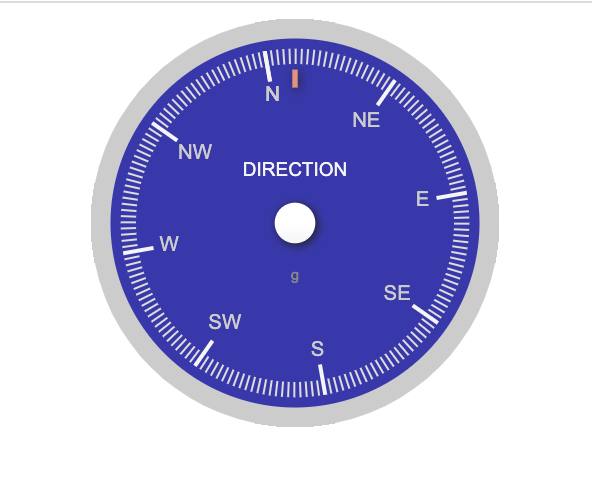
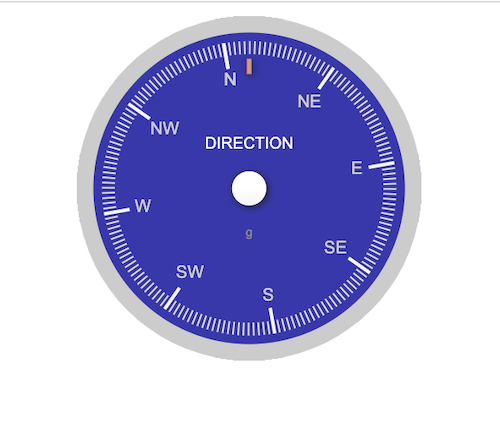
magnetic compass 2

diff --git a/examples/analog_compass_2/src/gauge.min.js b/examples/analog_compass_2/src/gauge.min.js
@@ -1,0 +1,27 @@
+/*!
+ * The MIT License (MIT)
+ * 
+ * Copyright (c) 2016 Mykhailo Stadnyk <mikhus@gmail.com>
+ * 
+ * Permission is hereby granted, free of charge, to any person obtaining a copy
+ * of this software and associated documentation files (the "Software"), to deal
+ * in the Software without restriction, including without limitation the rights
+ * to use, copy, modify, merge, publish, distribute, sublicense, and/or sell
+ * copies of the Software, and to permit persons to whom the Software is
+ * furnished to do so, subject to the following conditions:
+ * 
+ * The above copyright notice and this permission notice shall be included in
+ * all copies or substantial portions of the Software.
+ * 
+ * THE SOFTWARE IS PROVIDED "AS IS", WITHOUT WARRANTY OF ANY KIND, EXPRESS OR
+ * IMPLIED, INCLUDING BUT NOT LIMITED TO THE WARRANTIES OF MERCHANTABILITY,
+ * FITNESS FOR A PARTICULAR PURPOSE AND NONINFRINGEMENT. IN NO EVENT SHALL THE
+ * AUTHORS OR COPYRIGHT HOLDERS BE LIABLE FOR ANY CLAIM, DAMAGES OR OTHER
+ * LIABILITY, WHETHER IN AN ACTION OF CONTRACT, TORT OR OTHERWISE, ARISING FROM,
+ * OUT OF OR IN CONNECTION WITH THE SOFTWARE OR THE USE OR OTHER DEALINGS IN THE
+ * SOFTWARE.
+ *
+ * @version 2.1.5
+ */
+!function(e){"use strict";function t(e){if(Array.isArray(e)){for(var t=0,i=Array(e.length);t<e.length;t++)i[t]=e[t];return i}return Array.from(e)}function i(e,t){if(!e)throw new ReferenceError("this hasn't been initialised - super() hasn't been called");return!t||"object"!=typeof t&&"function"!=typeof t?e:t}function r(e,t){if("function"!=typeof t&&null!==t)throw new TypeError("Super expression must either be null or a function, not "+typeof t);e.prototype=Object.create(t&&t.prototype,{constructor:{value:e,enumerable:!1,writable:!0,configurable:!0}}),t&&(Object.setPrototypeOf?Object.setPrototypeOf(e,t):e.__proto__=t)}function o(e,t){if(!(e instanceof t))throw new TypeError("Cannot call a class as a function")}function n(e,t){if(t||(t="undefined"==typeof window?global:window),void 0!==t[e])return t[e];for(var i=["webkit","moz","ms","o"],r=0,o=i.length,n=e.charAt(0).toUpperCase()+e.substr(1);r<o;r++){var a=t[i[r]+n];if(void 0!==a)return a}return null}function a(e,t,i,r,o,n,l){if("function"!=typeof r)throw new TypeError("Invalid animation rule:",r);var s=e-i,d=s/o,c=0;d>1&&(d=1),1!==d&&(c=r(d),isFinite(c)&&!isNaN(c)&&(d=c)),t&&t(d),s<o?l.frame=ue(function(e){return a(e,t,i,r,o,n,l)}):(n&&n(),l.inProgress=!1)}function l(){Array.prototype.constructor.apply(this,arguments)}function s(e){if(!(e instanceof DOMException&&2152923147===e.result))throw e}function d(e){return e.majorTicks instanceof Array||(e.majorTicks=e.majorTicks?[e.majorTicks]:[]),e.majorTicks.length||(e.majorTicks.push(Te.formatMajorTickNumber(e.minValue,e)),e.majorTicks.push(Te.formatMajorTickNumber(e.maxValue,e))),["right"!==e.tickSide,"left"!==e.tickSide]}function c(e,t,i,r,o,n){e.beginPath(),e.moveTo(t+n,i),e.lineTo(t+r-n,i),e.quadraticCurveTo(t+r,i,t+r,i+n),e.lineTo(t+r,i+o-n),e.quadraticCurveTo(t+r,i+o,t+r-n,i+o),e.lineTo(t+n,i+o),e.quadraticCurveTo(t,i+o,t,i+o-n),e.lineTo(t,i+n),e.quadraticCurveTo(t,i,t+n,i),e.closePath()}function h(e,t){var i=t.valueDec,r=t.valueInt,o=0,n=void 0,a=void 0,l=void 0;if(e=parseFloat(e),l=e<0,e=Math.abs(e),i>0){for(a=e.toFixed(i).toString().split("."),n=r-a[0].length;o<n;++o)a[0]="0"+a[0];a=(l?"-":"")+a[0]+"."+a[1]}else{for(a=Math.round(e).toString(),n=r-a.length;o<n;++o)a="0"+a;a=(l?"-":"")+a}return a}function u(e,t){var i=void 0,r=!1;return i=0===t.majorTicksDec?Math.round(e).toString():e.toFixed(t.majorTicksDec),t.majorTicksInt>1?(r=~i.indexOf("."),~i.indexOf("-")?"-"+[t.majorTicksInt+t.majorTicksDec+2+(r?1:0)-i.length].join("0")+i.replace("-",""):[t.majorTicksInt+t.majorTicksDec+1+(r?1:0)-i.length].join("0")+i):i}function f(e){return e*Math.PI/180}function m(e,t){return{x:-e*Math.sin(t),y:e*Math.cos(t)}}function v(e,t,i,r){var o=!(arguments.length>4&&void 0!==arguments[4])||arguments[4],n=arguments.length>5&&void 0!==arguments[5]?arguments[5]:0,a=e.createLinearGradient(o?0:n,o?n:0,o?0:r,o?r:0);return a.addColorStop(0,t),a.addColorStop(1,i),a}function b(e,t){if(arguments.length>2&&void 0!==arguments[2]&&arguments[2])return e.restore(),!0;e.save();var i=t.borderShadowWidth;return i&&(e.shadowBlur=i,e.shadowColor=t.colorBorderShadow),!0}function g(e,t){t.needleShadow&&(e.shadowOffsetX=2,e.shadowOffsetY=2,e.shadowBlur=10,e.shadowColor=t.colorNeedleShadowDown)}function p(e,t,i){return e["font"+t+"Style"]+" "+e["font"+t+"Weight"]+" "+e["font"+t+"Size"]*i+"px "+e["font"+t]}function w(e){e.shadowOffsetX=null,e.shadowOffsetY=null,e.shadowBlur=null,e.shadowColor="",e.strokeStyle=null,e.lineWidth=0,e.save()}function y(e,t,i,r){t.valueTextShadow&&(e.shadowOffsetX=i,e.shadowOffsetY=i,e.shadowBlur=r,e.shadowColor=t.colorValueTextShadow)}function k(e,t,i,r,o,n){if(t.valueBox){w(e);var a=t.valueDec?1+t.valueDec:0,l="9".repeat(Math.max.apply(null,[String(parseInt(i)).length+a].concat(t.majorTicks.map(function(e){return String(parseInt(e,10)).length+a})))),s=t.valueText||h(i,t),d=n/200,u=n/100,f=.4*u,m=1.2*u;e.font=p(t,"Value",d),y(e,t,f,m);var v=e.measureText(t.valueText?s:"-"+h(Number(l),t)).width;w(e);var b=parseFloat(t.fontValueSize)*d+f+m,g=u*parseFloat(t.valueBoxStroke),k=2*n-2*g,x=v+10*u,T=1.1*b+f+m,S=u*t.valueBoxBorderRadius,W=(parseFloat(t.valueBoxWidth)||0)/100*k;W>x&&(x=W),x>k&&(x=k);var O=r-x/2,V=o-T/2,P=o-5.75*u;if(e.beginPath(),S?c(e,O,V,x,T,S):e.rect(O,V,x,T),g){var M=e.createRadialGradient(r,P,10*u,r,P,20*u);M.addColorStop(0,t.colorValueBoxRect),M.addColorStop(1,t.colorValueBoxRectEnd),e.strokeStyle=M,e.lineWidth=g,e.stroke()}t.colorValueBoxShadow&&(e.shadowBlur=1.2*u,e.shadowColor=t.colorValueBoxShadow),t.colorValueBoxBackground&&(e.fillStyle=t.colorValueBoxBackground,e.fill()),e.closePath(),e.restore(),y(e,t,f,m),e.fillStyle=t.colorValueText,e.textAlign="center",e.textBaseline="alphabetic",e.fillText(s,O+x/2,o+T/2-b/3),e.restore()}}function x(e){var t=e.value,i=e.minValue,r=e.maxValue,o=.01*(r-i);return{normal:t<i?i:t>r?r:t,indented:t<i?i-o:t>r?r+o:t}}function T(e,t,i,r,o){i.beginPath(),i.arc(0,0,ye(e),0,2*Se,!0),i.lineWidth=t,i.strokeStyle=o?Te.linearGradient(i,r,o,e):r,i.stroke(),i.closePath()}function S(e,t){var i=be.pixelRatio;return e.maxRadius||(e.maxRadius=e.max-t.borderShadowWidth-t.borderOuterWidth*i-t.borderMiddleWidth*i-t.borderInnerWidth*i+(t.borderOuterWidth?.5:0)+(t.borderMiddleWidth?.5:0)+(t.borderInnerWidth?.5:0)),e.maxRadius}function W(e,t){var i=be.pixelRatio,r=t.borderShadowWidth*i,o=e.max-r-t.borderOuterWidth*i/2,n=o-t.borderOuterWidth*i/2-t.borderMiddleWidth*i/2+.5,a=n-t.borderMiddleWidth*i/2-t.borderInnerWidth*i/2+.5,l=S(e,t),s=void 0,d=!1;e.save(),t.borderOuterWidth&&(d=Te.drawShadow(e,t,d),T(o,t.borderOuterWidth*i,e,t.colorBorderOuter,t.colorBorderOuterEnd)),t.borderMiddleWidth&&(d=Te.drawShadow(e,t,d),T(n,t.borderMiddleWidth*i,e,t.colorBorderMiddle,t.colorBorderMiddleEnd)),t.borderInnerWidth&&(d=Te.drawShadow(e,t,d),T(a,t.borderInnerWidth*i,e,t.colorBorderInner,t.colorBorderInnerEnd)),Te.drawShadow(e,t,d),e.beginPath(),e.arc(0,0,ye(l),0,2*Se,!0),t.colorPlateEnd?(s=e.createRadialGradient(0,0,l/2,0,0,l),s.addColorStop(0,t.colorPlate),s.addColorStop(1,t.colorPlateEnd)):s=t.colorPlate,e.fillStyle=s,e.fill(),e.closePath(),e.restore()}function O(e,t){var i=e.max*(parseFloat(t.highlightsWidth)||0)/100;if(i){var r=ye(P(e,t)-i/2),o=0,n=t.highlights.length,a=(t.maxValue-t.minValue)/t.ticksAngle;for(e.save();o<n;o++){var l=t.highlights[o];e.beginPath(),e.rotate(We),e.arc(0,0,r,Te.radians(t.startAngle+(l.from-t.minValue)/a),Te.radians(t.startAngle+(l.to-t.minValue)/a),!1),e.strokeStyle=l.color,e.lineWidth=i,e.stroke(),e.closePath(),e.restore(),e.save()}}}function V(e,t){var i=P(e,t),r=void 0,o=void 0,n=void 0,a=0,l=0,s=Math.abs(t.minorTicks)||0,d=t.ticksAngle/(t.maxValue-t.minValue);for(e.lineWidth=be.pixelRatio,e.strokeStyle=t.colorMinorTicks||t.colorStrokeTicks,e.save(),t.exactTicks?(o=t.maxValue-t.minValue,r=s?o/s:0,l=(xe.mod(t.majorTicks[0],s)||0)*d):r=s*(t.majorTicks.length-1);a<r;++a)(n=t.startAngle+l+a*(t.ticksAngle/r))<=t.ticksAngle+t.startAngle&&(e.rotate(Te.radians(n)),e.beginPath(),e.moveTo(0,i),e.lineTo(0,i-.075*e.max),B(e))}function P(e,t){var i=e.max/100;return S(e,t)-5*i-(t.barWidth?2*(parseFloat(t.barStrokeWidth)||0)+((parseFloat(t.barWidth)||0)+5)*i:0)}function M(e,t){Te.prepareTicks(t);var i=ye(P(e,t)),r=void 0,o=void 0,n=t.majorTicks.length,a=be.pixelRatio;for(e.lineWidth=2*a,e.save(),o=t.colorMajorTicks instanceof Array?t.colorMajorTicks:new Array(n).fill(t.colorStrokeTicks||t.colorMajorTicks),r=0;r<n;++r)e.strokeStyle=o[r],e.rotate(Te.radians(A(t,t.exactTicks?t.majorTicks[r]:r,n))),e.beginPath(),e.moveTo(0,i),e.lineTo(0,i-.15*e.max),B(e);t.strokeTicks&&(e.strokeStyle=t.colorStrokeTicks||o[0],e.rotate(We),e.beginPath(),e.arc(0,0,i,Te.radians(t.startAngle),Te.radians(t.startAngle+t.ticksAngle),!1),B(e))}function A(e,t,i){if(e.exactTicks){var r=e.ticksAngle/(e.maxValue-e.minValue);return e.startAngle+r*(t-e.minValue)}return e.startAngle+t*(e.ticksAngle/(i-1))}function B(e){e.stroke(),e.restore(),e.closePath(),e.save()}function j(e,t){var i=P(e,t)-.15*e.max,r={},o=0,n=t.majorTicks.length,a="needle"!==t.animationTarget,l=t.colorNumbers instanceof Array?t.colorNumbers:new Array(n).fill(t.colorNumbers),s=a?-(t.value-t.minValue)/(t.maxValue-t.minValue)*t.ticksAngle:0;for(a&&(e.save(),e.rotate(-Te.radians(s))),e.font=Te.font(t,"Numbers",e.max/200),e.lineWidth=0,e.textAlign="center",e.textBaseline="middle";o<n;++o){var d=s+A(t,t.exactTicks?t.majorTicks[o]:o,n),c=e.measureText(t.majorTicks[o]).width,h=t.fontNumbersSize,u=Math.sqrt(c*c+h*h)/2,f=Te.radialPoint(i-u-t.numbersMargin/100*e.max,Te.radians(d));360===d&&(d=0),r[d]||(r[d]=!0,e.fillStyle=l[o],e.fillText(t.majorTicks[o],f.x,f.y))}a&&e.restore()}function C(e,t){t.title&&(e.save(),e.font=Te.font(t,"Title",e.max/200),e.fillStyle=t.colorTitle,e.textAlign="center",e.fillText(t.title,0,-e.max/4.25,.8*e.max),e.restore())}function N(e,t){t.units&&(e.save(),e.font=Te.font(t,"Units",e.max/200),e.fillStyle=t.colorUnits,e.textAlign="center",e.fillText(t.units,0,e.max/3.25,.8*e.max),e.restore())}function E(e,t){if(t.needle){var i=t.ticksAngle<360?Te.normalizedValue(t).indented:t.value,r=S(e,t),o=ye(r/100*t.needleCircleSize),n=ye(r/100*t.needleCircleSize*.75),a=ye(r/100*t.needleEnd),l=ye(t.needleStart?r/100*t.needleStart:0),s=r/100*t.needleWidth,d=r/100*t.needleWidth/2,c=be.pixelRatio,h="needle"!==t.animationTarget;e.save(),Te.drawNeedleShadow(e,t),e.rotate(Te.radians(h?t.startAngle:t.startAngle+(i-t.minValue)/(t.maxValue-t.minValue)*t.ticksAngle)),e.fillStyle=Te.linearGradient(e,t.colorNeedle,t.colorNeedleEnd,a-l),"arrow"===t.needleType?(e.beginPath(),e.moveTo(-d,-l),e.lineTo(-s,0),e.lineTo(-1*c,a),e.lineTo(c,a),e.lineTo(s,0),e.lineTo(d,-l),e.closePath(),e.fill(),e.beginPath(),e.lineTo(-.5*c,a),e.lineTo(-1*c,a),e.lineTo(-s,0),e.lineTo(-d,-l),e.lineTo(d/2*c-2*c,-l),e.closePath(),e.fillStyle=t.colorNeedleShadowUp,e.fill()):(e.beginPath(),e.moveTo(-d,a),e.lineTo(-d,l),e.lineTo(d,l),e.lineTo(d,a),e.closePath(),e.fill()),t.needleCircleSize&&(e.restore(),Te.drawNeedleShadow(e,t),t.needleCircleOuter&&(e.beginPath(),e.arc(0,0,o,0,2*Se,!0),e.fillStyle=Te.linearGradient(e,t.colorNeedleCircleOuter,t.colorNeedleCircleOuterEnd,o),e.fill(),e.closePath()),t.needleCircleInner&&(e.beginPath(),e.arc(0,0,n,0,2*Se,!0),e.fillStyle=Te.linearGradient(e,t.colorNeedleCircleInner,t.colorNeedleCircleInnerEnd,n),e.fill(),e.closePath()),e.restore())}}function _(e,t,i){Te.drawValueBox(e,t,i,0,e.max-.33*e.max,e.max)}function R(e,t){var i=e.max/100,r=S(e,t)-5*i,o=parseFloat(t.barStrokeWidth)||0,n=(parseFloat(t.barWidth)||0)*i,a=r-2*o-n,l=(r-a)/2,s=a+l,d=o/s,c=t.startAngle,h=t.startAngle+t.ticksAngle;e.save(),e.rotate(We),o&&(e.beginPath(),e.arc(0,0,s,Te.radians(c)-d,Te.radians(h)+d,!1),e.strokeStyle=t.colorBarStroke,e.lineWidth=2*l,e.stroke(),e.closePath()),n&&(e.beginPath(),e.arc(0,0,s,Te.radians(c),Te.radians(h),!1),e.strokeStyle=t.colorBar,e.lineWidth=n,e.stroke(),e.closePath(),t.barShadow&&(e.beginPath(),e.arc(0,0,r,Te.radians(c),Te.radians(h),!1),e.clip(),e.beginPath(),e.strokeStyle=t.colorBar,e.lineWidth=1,e.shadowBlur=t.barShadow,e.shadowColor=t.colorBarShadow,e.shadowOffsetX=0,e.shadowOffsetY=0,e.arc(0,0,r,Te.radians(t.startAngle),Te.radians(t.startAngle+t.ticksAngle),!1),e.stroke(),e.closePath(),e.restore(),e.rotate(We)),t.barProgress&&(e.beginPath(),e.arc(0,0,s,Te.radians(c),Te.radians(c+(Te.normalizedValue(t).normal-t.minValue)/(t.maxValue-t.minValue)*t.ticksAngle),!1),e.strokeStyle=t.colorBarProgress,e.lineWidth=n,e.stroke(),e.closePath())),e.restore()}function I(e){return e.options.animatedValue?e.options.value:e.value}function D(e,t,i,r,o,n,a,l){e.beginPath(),e.fillStyle=l?Te.linearGradient(e,a,l,o>n?o:n,n>o,o>n?i:r):a,t>0?Te.roundRect(e,i,r,o,n,t):e.rect(i,r,o,n),e.fill(),e.closePath()}function z(e,t,i,r,o,n,a,l,s){e.beginPath(),e.lineWidth=t,e.strokeStyle=s?Te.linearGradient(e,l,s,a,!0,o):l,i>0?Te.roundRect(e,r,o,n,a,i):e.rect(r,o,n,a),e.stroke(),e.closePath()}function L(e,t,i,r,o,n){var a=be.pixelRatio;e.save();var l=t.borderRadius*a,s=o-t.borderShadowWidth-t.borderOuterWidth*a,d=s-t.borderOuterWidth*a-t.borderMiddleWidth*a,c=d-t.borderMiddleWidth*a-t.borderInnerWidth*a,h=c-t.borderInnerWidth*a,u=n-t.borderShadowWidth-t.borderOuterWidth*a,f=u-t.borderOuterWidth*a-t.borderMiddleWidth*a,m=f-t.borderMiddleWidth*a-t.borderInnerWidth*a,v=m-t.borderInnerWidth*a,b=i-(d-s)/2,g=b-(c-d)/2,p=g-(h-c)/2,w=r-(f-u)/2,y=w-(m-f)/2,k=y-(v-m)/2,x=0,T=!1;return t.borderOuterWidth&&(T=Te.drawShadow(e,t,T),z(e,t.borderOuterWidth*a,l,i+t.borderOuterWidth*a/2-x,r+t.borderOuterWidth*a/2-x,s,u,t.colorBorderOuter,t.colorBorderOuterEnd),x+=.5*a),t.borderMiddleWidth&&(T=Te.drawShadow(e,t,T),z(e,t.borderMiddleWidth*a,l-=1+2*x,b+t.borderMiddleWidth*a/2-x,w+t.borderMiddleWidth*a/2-x,d+2*x,f+2*x,t.colorBorderMiddle,t.colorBorderMiddleEnd),x+=.5*a),t.borderInnerWidth&&(T=Te.drawShadow(e,t,T),z(e,t.borderInnerWidth*a,l-=1+2*x,g+t.borderInnerWidth*a/2-x,y+t.borderInnerWidth*a/2-x,c+2*x,m+2*x,t.colorBorderInner,t.colorBorderInnerEnd),x+=.5*a),Te.drawShadow(e,t,T),D(e,l,p,k,h+2*x,v+2*x,t.colorPlate,t.colorPlateEnd),e.restore(),[p,k,h,v]}function G(e,t,i,r,o,n){var a=be.pixelRatio,l=n>=o,s=l?.85*o:n,d=l?n:o;i=l?we(i+(o-s)/2):i;var c=!!t.title,h=!!t.units,u=!!t.valueBox,f=void 0,m=void 0,v=void 0;l?(m=we(.05*d),f=we(.075*d),v=we(.11*d),c&&(d-=f,r+=f),h&&(d-=m),u&&(d-=v)):(m=f=we(.15*s),c&&(s-=f,r+=f),h&&(s-=m));var b=2*t.barStrokeWidth,g=t.barBeginCircle?we(s*t.barBeginCircle/200-b/2):0,p=we(s*t.barWidth/100-b),w=we(d*t.barLength/100-b),y=we((d-w)/2),k=we(i+(l?s/2:y+g)),x=we(r+(l?d-y-g+b/2:s/2)),T=!l||t.hasLeft&&t.hasRight?0:(t.hasRight?-1:1)*t.ticksWidth/100*s,S=l||t.hasLeft&&t.hasRight?0:(t.hasRight?-1:1)*t.ticksWidth/100*s;return e.barDimensions={isVertical:l,width:s,length:d,barWidth:p,barLength:w,strokeWidth:b,barMargin:y,radius:g,pixelRatio:a,barOffset:null,titleMargin:c?f:0,unitsMargin:h?m:0,get ticksLength(){return this.barLength-this.barOffset-this.strokeWidth},X:i+T,Y:r+S,x0:k+T,y0:x+S,baseX:i,baseY:r,ticksPadding:t.ticksPadding/100},e.barDimensions}function F(e,t,i,r,o,n,a){var l=G(e,t,r,o,n,a),s=l.isVertical,d=l.width,c=l.barWidth,h=l.barLength,u=l.strokeWidth,f=l.barMargin,m=l.radius,v=l.x0,b=l.y0,g=l.X,p=l.Y,w=h;if(e.save(),e.beginPath(),t.barBeginCircle){var y=Te.radians(s?270:0),k=Math.asin(c/2/m),x=Math.cos(k),T=Math.sin(k),S=v+(s?m*T:m*x-u/2),W=s?b-m*x:b+m*T,O=ye(s?W-b:S-v);e.barDimensions.barOffset=we(O+m);var V=s?we(v-m*T):S,P=s?W:we(b-m*T);"progress"===i&&(h=e.barDimensions.barOffset+(h-e.barDimensions.barOffset)*(Te.normalizedValue(t).normal-t.minValue)/(t.maxValue-t.minValue));var M=we(S+h-e.barDimensions.barOffset+u/2),A=we(W-h+e.barDimensions.barOffset-u/2);e.arc(v,b,m,y+k,y-k),s?(e.moveTo(S,P),e.lineTo(S,A),e.lineTo(V,A),e.lineTo(V,P)):(e.moveTo(S,P),e.lineTo(M,P),e.lineTo(M,W),e.lineTo(S,W))}else{var B=we(s?g+(d-c)/2:g+f),j=we(s?p+h+f:p+(d-c)/2);"progress"===i&&(h*=(t.value-t.minValue)/(t.maxValue-t.minValue)),s?e.rect(B,j,c,-h):e.rect(B,j,h,c)}"progress"!==i&&t.barStrokeWidth&&(e.lineWidth=u,e.strokeStyle=t.colorBarStroke,e.stroke()),"progress"!==i&&t.colorBar?(e.fillStyle=t.colorBarEnd?Te.linearGradient(e,t.colorBar,t.colorBarEnd,h,s,s?p:g):t.colorBar,e.fill()):"progress"===i&&t.colorBarProgress&&(e.fillStyle=t.colorBarProgressEnd?Te.linearGradient(e,t.colorBarProgress,t.colorBarProgressEnd,w,s,s?p:g):t.colorBarProgress,e.fill()),e.closePath(),t.barBeginCircle&&(e.barDimensions.radius+=u),e.barDimensions.barWidth+=u,e.barDimensions.barLength+=u}function X(e,t,i,r,o,n){F(e,t,"",i,r,o,n)}function Y(e,t){return t.needleSide!==e||t.tickSide!==e||t.numberSide!==e}function U(e,t,i,r,o,n){t.barProgress&&F(e,t,"progress",i,r,o,n)}function q(e,t){var i=e.barDimensions,r=i.isVertical,o=i.width,n=i.length,a=i.barWidth,l=i.barOffset,s=i.barMargin,d=i.X,c=i.Y,h=i.ticksLength,u=i.ticksPadding,f=o*(parseFloat(t.highlightsWidth)||0)/100;if(t.highlights&&f){var m="right"!==t.tickSide,v="left"!==t.tickSide,b=0,g=t.highlights.length,p=(o-a)/2,w=t.maxValue-t.minValue,y=we(r?d+p:d+s+l),k=f,x=r?c+n-s-l:c+p,T=we((t.ticksWidth/100+u)*o)+(f-t.ticksWidth/100*o),S=we(a+u*o);for(e.save();b<g;b++){var W=t.highlights[b],O=h*ye(t.minValue-W.from)/w,V=h*ye((W.to-W.from)/w);e.beginPath(),e.fillStyle=W.color,r?(m&&e.rect(y-T,x-O,k,-V),v&&e.rect(y+S,x-O,k,-V)):(m&&e.rect(y+O,x-T,V,k),v&&e.rect(y+O,x+S,V,k)),e.fill(),e.closePath()}}}function H(e,t,i,r,o){e.beginPath(),e.moveTo(t,i),e.lineTo(r,o),e.stroke(),e.closePath(),e.save()}function J(e,t,i,r,o,n,a,l,s){var d=e.barDimensions,c=d.isVertical,h=d.length,u=d.barWidth,f=d.barOffset,m=d.barMargin,v=d.pixelRatio,b=d.width,g=d.X,p=d.Y,w=d.ticksLength,y=d.ticksPadding,k=(b-u)/2,x=void 0,T=void 0,S=0,W=i.length,O=void 0,V=s*b,P=k-y*b,M=k+u+V+y*b,A=t instanceof Array?t:new Array(i.length).fill(t);e.lineWidth=l*v,e.save();for(var B=w/(o-r);S<W;S++)O=i[S],e.strokeStyle=A[S],c?(T=p+h-m-f+(r-O)*B,n&&(x=g+P,H(e,x,T,we(x-V),T)),a&&(x=g+M,H(e,x,T,we(x-V),T))):(x=g+m+f-(r-O)*B,n&&(T=p+P,H(e,x,T,x,we(T-V))),a&&(T=p+M,H(e,x,we(T),x,T-V)))}function $(e,t){var i=Te.prepareTicks(t),r=le(i,2),o=r[0],n=r[1],a=2,l=(t.maxValue-t.minValue)/(t.majorTicks.length-1),s=t.colorMajorTicks instanceof Array?t.colorMajorTicks:new Array(t.majorTicks.length).fill(t.colorStrokeTicks||t.colorMajorTicks);if(J(e,s,t.exactTicks?t.majorTicks:t.majorTicks.map(function(e,i){return t.minValue+l*i}),t.minValue,t.maxValue,o,n,a,t.ticksWidth/100),t.strokeTicks){var d=e.barDimensions,c=d.isVertical,h=d.length,u=d.width,f=d.barWidth,m=d.barMargin,v=d.barOffset,b=d.X,g=d.Y,p=d.ticksLength,w=d.pixelRatio,y=d.ticksPadding,k=(u-f)/2+f+y*u,x=(u-f)/2-y*u,T=void 0,S=void 0,W=void 0,O=void 0;e.strokeStyle=t.colorStrokeTicks||s[0],a*=w,c?(S=g+h-m-v+a/2,O=S-p-a,o&&(W=T=we(b+x),Z(e,T,S,W,O)),n&&(W=T=we(b+k),Z(e,T,S,W,O))):(T=b+m+v-a/2,W=T+p+a,o&&(O=S=we(g+x),Z(e,T,S,W,O)),n&&(O=S=we(g+k),Z(e,T,S,W,O)))}}function Z(e,t,i,r,o){e.beginPath(),e.moveTo(t,i),e.lineTo(r,o),e.stroke(),e.closePath()}function K(e,t){var i=Te.prepareTicks(t),r=le(i,2),o=r[0],n=r[1],a=[],l=t.minValue,s=Math.abs(t.minorTicks)||0,d=s?(t.maxValue-t.minValue)/(s*(t.majorTicks.length-1)):0;if(s)if(t.exactTicks)for(var c=xe.mod(t.majorTicks[0],s)||0;l<t.maxValue;l+=s)c+l<t.maxValue&&a.push(c+l);else for(;l<t.maxValue;l+=d)a.push(l);J(e,t.colorMinorTicks||t.colorStrokeTicks,a,t.minValue,t.maxValue,o,n,1,t.ticksWidthMinor/100)}function Q(e,t){var i=e.barDimensions,r=i.isVertical,o=i.length,n=i.width,a=i.barWidth,l=i.barMargin,s=i.barOffset,d=i.X,c=i.Y,h=i.ticksLength,u=i.ticksPadding,f=t.maxValue-t.minValue,m=f/(t.majorTicks.length-1),v=t.exactTicks?t.majorTicks:t.majorTicks.map(function(e,i){return t.minValue+m*i}),b=v.length,g="right"!==t.numberSide,p="left"!==t.numberSide,w=t.fontNumbersSize*n/200,y=0,k=(t.ticksWidth/100+2*u)*n,x=(n-a)/2-k,T=(n-a)/2+a+k,S=void 0,W=void 0,O=void 0,V=void 0,P=t.colorNumbers instanceof Array?t.colorNumbers:new Array(b).fill(t.colorNumbers),M=t.numbersMargin/100*n;for(e.font=Te.font(t,"Numbers",n/200),e.lineWidth=0,e.textAlign="center";y<b;y++)e.fillStyle=P[y],V=t.majorTicks[y],O=t.exactTicks?h*((v[y]-t.minValue)/f):y*h/(b-1),r?(W=c+o-l-s-O+w/3,g&&(e.textAlign="right",e.fillText(V,d+x-M,W)),p&&(e.textAlign="left",e.fillText(V,d+T+M,W))):(e.measureText(V).width,S=d+l+s+O,g&&e.fillText(V,S,c+x-M),p&&e.fillText(V,S,c+T+w+M))}function ee(e,t){if(t.title){var i=e.barDimensions,r=i.isVertical,o=i.width,n=i.length,a=i.baseX,l=i.baseY,s=i.titleMargin,d=t.fontTitleSize*o/200,c=we(a+(r?o:n)/2),h=we(l+s/2-(r?d:d/2)-.025*(r?n:o));e.save(),e.textAlign="center",e.fillStyle=t.colorTitle,e.font=Te.font(t,"Title",o/200),e.lineWidth=0,e.fillText(t.title,c,h,r?o:n)}}function te(e,t){if(t.units){var i=e.barDimensions,r=i.isVertical,o=i.width,n=i.length,a=i.baseX,l=i.baseY,s=i.unitsMargin,d=t.fontUnitsSize*o/200,c=we(a+(r?o:n)/2),h=we(l+(r?n:o)+s/2-d/2);e.save(),e.textAlign="center",e.fillStyle=t.colorUnits,e.font=Te.font(t,"Units",o/200),e.lineWidth=0,e.fillText(t.units,c,h,r?o:n)}}function ie(e,t){if(t.needle){var i=e.barDimensions,r=i.isVertical,o=i.width,n=i.length,a=i.barWidth,l=i.barOffset,s=i.barMargin,d=i.ticksLength,c=i.X,h=i.Y,u=i.ticksPadding,f="right"!==t.needleSide,m="left"!==t.needleSide,v=d*(Te.normalizedValue(t).indented-t.minValue)/(t.maxValue-t.minValue),b=(t.ticksWidth/100+u)*o,g=a/2+b,p=g*(t.needleEnd/100),w=void 0,y=void 0,k=void 0,x=void 0,T="arrow"===t.needleType.toLowerCase()?ne:oe,S=(o-a)/2,W=g*(t.needleStart/100),O=S-b-W,V=S+a+b+W;e.save(),Te.drawNeedleShadow(e,t),r?(k=we(h+n-s-l-v),f&&(w=we(c+O),y=w+p,T(e,t,w,k,y,k,p)),m&&(w=we(c+V),y=w-p,T(e,t,w,k,y,k,p,!0))):(w=we(c+s+l+v),f&&(k=we(h+O),x=k+p,T(e,t,w,k,w,x,p)),m&&(k=we(h+V),x=k-p,T(e,t,w,k,w,x,p,!0))),e.restore()}}function re(e,t,i,r){return t.colorNeedleEnd?Te.linearGradient(e,r?t.colorNeedleEnd:t.colorNeedle,r?t.colorNeedle:t.colorNeedleEnd,i,!e.barDimensions.isVertical):t.colorNeedle}function oe(e,t,i,r,o,n,a,l){e.lineWidth=t.needleWidth,e.strokeStyle=re(e,t,a,l),e.beginPath(),e.moveTo(i,r),e.lineTo(o,n),e.stroke(),e.closePath()}function ne(e,t,i,r,o,n,a,l){var s=we(.4*a),d=a-s,c=i===o,h=t.needleWidth/2;e.fillStyle=re(e,t,a,l),e.beginPath(),c?(r>n&&(d*=-1),e.moveTo(i-h,r),e.lineTo(i+h,r),e.lineTo(i+h,r+d),e.lineTo(i,n),e.lineTo(i-h,r+d),e.lineTo(i-h,r)):(i>o&&(d*=-1),e.moveTo(i,r-h),e.lineTo(i,r+h),e.lineTo(i+d,r+h),e.lineTo(o,r),e.lineTo(i+d,r-h),e.lineTo(i,r-h)),e.fill(),e.closePath()}function ae(e,t,i,r,o,n,a){var l=(parseFloat(t.fontValueSize)||0)*n/200,s=(.11*a-l)/2;e.barDimensions.isVertical&&Te.drawValueBox(e,t,i,r+n/2,o+a-l-s,n)}var le=function(){function e(e,t){var i=[],r=!0,o=!1,n=void 0;try{for(var a,l=e[Symbol.iterator]();!(r=(a=l.next()).done)&&(i.push(a.value),!t||i.length!==t);r=!0);}catch(e){o=!0,n=e}finally{try{!r&&l.return&&l.return()}finally{if(o)throw n}}return i}return function(t,i){if(Array.isArray(t))return t;if(Symbol.iterator in Object(t))return e(t,i);throw new TypeError("Invalid attempt to destructure non-iterable instance")}}(),se=function e(t,i,r){null===t&&(t=Function.prototype);var o=Object.getOwnPropertyDescriptor(t,i);if(void 0===o){var n=Object.getPrototypeOf(t);return null===n?void 0:e(n,i,r)}if("value"in o)return o.value;var a=o.get;if(void 0!==a)return a.call(r)},de=function e(t,i,r,o){var n=Object.getOwnPropertyDescriptor(t,i);if(void 0===n){var a=Object.getPrototypeOf(t);null!==a&&e(a,i,r,o)}else if("value"in n&&n.writable)n.value=r;else{var l=n.set;void 0!==l&&l.call(o,r)}return r},ce=function(){function e(e,t){for(var i=0;i<t.length;i++){var r=t[i];r.enumerable=r.enumerable||!1,r.configurable=!0,"value"in r&&(r.writable=!0),Object.defineProperty(e,r.key,r)}}return function(t,i,r){return i&&e(t.prototype,i),r&&e(t,r),t}}();Object.assign||Object.defineProperty(Object,"assign",{enumerable:!1,configurable:!0,writable:!0,value:function(e,t){if(void 0===e||null===e)throw new TypeError("Cannot convert first argument to object");for(var i=Object(e),r=1;r<arguments.length;r++){var o=arguments[r];if(void 0!==o&&null!==o)for(var n=Object.keys(Object(o)),a=0,l=n.length;a<l;a++){var s=n[a],d=Object.getOwnPropertyDescriptor(o,s);void 0!==d&&d.enumerable&&(i[s]=o[s])}}return i}}),Array.prototype.indexOf||Object.defineProperty(Array.prototype,"indexOf",{value:function(e,t){var i;if(null===this)throw new TypeError('"this" is null or not defined');var r=Object(this),o=r.length>>>0;if(0===o)return-1;var n=+t||0;if(Math.abs(n)===1/0&&(n=0),n>=o)return-1;for(i=Math.max(n>=0?n:o-Math.abs(n),0);i<o;){if(i in r&&r[i]===e)return i;i++}return-1}}),Array.prototype.fill||Object.defineProperty(Array.prototype,"fill",{value:function(e){if(null===this)throw new TypeError("this is null or not defined");for(var t=Object(this),i=t.length>>>0,r=arguments[1],o=r>>0,n=o<0?Math.max(i+o,0):Math.min(o,i),a=arguments[2],l=void 0===a?i:a>>0,s=l<0?Math.max(i+l,0):Math.min(l,i);n<s;)t[n]=e,n++;return t}}),"undefined"==typeof window&&(window="undefined"==typeof global?{}:global);var he=function(){function e(){o(this,e),this._events={},this.addListener=this.on,this.removeListener=this.off}return ce(e,[{key:"emit",value:function(e){if(this._events[e]){for(var t=0,i=this._events[e].length,r=arguments.length,o=Array(r>1?r-1:0),n=1;n<r;n++)o[n-1]=arguments[n];for(;t<i;t++)this._events[e][t]&&this._events[e][t].apply(this,o)}}},{key:"once",value:function(e){for(var t=arguments.length,i=Array(t>1?t-1:0),r=1;r<t;r++)i[r-1]=arguments[r];for(var o=0,n=i.length,a=this;o<n;o++)!function(){var t=i[o],r=function i(){a.off(e,i),t.apply(a,arguments)};i[o]=r}();this.on.apply(this,[e].concat(i))}},{key:"on",value:function(e){this._events[e]||(this._events[e]=[]);for(var t=0,i=arguments.length<=1?0:arguments.length-1;t<i;t++)this._events[e].push(arguments.length<=t+1?void 0:arguments[t+1])}},{key:"off",value:function(e){if(this._events[e])for(var t=0,i=arguments.length<=1?0:arguments.length-1;t<i;t++)for(var r=arguments.length<=t+1?void 0:arguments[t+1],o=void 0;~(o=this._events[e].indexOf(r));)this._events[e].splice(o,1)}},{key:"removeAllListeners",value:function(e){delete this._events[e]}},{key:"listeners",get:function(){return this._events}}]),e}(),ue=n("requestAnimationFrame")||function(e){return setTimeout(function(){return e((new Date).getTime())},1e3/60)},fe={linear:function(e){return e},quad:function(e){return Math.pow(e,2)},dequad:function(e){return 1-fe.quad(1-e)},quint:function(e){return Math.pow(e,5)},dequint:function(e){return 1-Math.pow(1-e,5)},cycle:function(e){return 1-Math.sin(Math.acos(e))},decycle:function(e){return Math.sin(Math.acos(1-e))},bounce:function(e){return 1-fe.debounce(1-e)},debounce:function(e){for(var t=0,i=1;1;t+=i,i/=2)if(e>=(7-4*t)/11)return-Math.pow((11-6*t-11*e)/4,2)+Math.pow(i,2)},elastic:function(e){return 1-fe.delastic(1-e)},delastic:function(e){return Math.pow(2,10*(e-1))*Math.cos(20*Math.PI*1.5/3*e)}},me=function(){function e(){var t=arguments.length>0&&void 0!==arguments[0]?arguments[0]:"linear",i=arguments.length>1&&void 0!==arguments[1]?arguments[1]:250,r=arguments.length>2&&void 0!==arguments[2]?arguments[2]:function(){},n=arguments.length>3&&void 0!==arguments[3]?arguments[3]:function(){};if(o(this,e),this.duration=i,this.rule=t,this.draw=r,this.end=n,"function"!=typeof this.draw)throw new TypeError("Invalid animation draw callback:",r);if("function"!=typeof this.end)throw new TypeError("Invalid animation end callback:",n)}return ce(e,[{key:"animate",value:function(e,t){var i=this;this.frame&&this.cancel();var r=window.performance&&window.performance.now?window.performance.now():n("animationStartTime")||Date.now();e=e||this.draw,t=t||this.end,this.draw=e,this.end=t,this.frame=ue(function(o){return a(o,e,r,fe[i.rule]||i.rule,i.duration,t,i)})}},{key:"cancel",value:function(){if(this.frame){(n("cancelAnimationFrame")||function(e){})(this.frame),this.frame=null}}},{key:"destroy",value:function(){this.cancel(),this.draw=null,this.end=null}}]),e}();me.rules=fe;var ve=function(){function t(i,r,n){o(this,t),this.options=i,this.element=r.toLowerCase(),this.type=t.toDashed(n),this.Type=e[n],this.mutationsObserved=!1,this.isObservable=!!window.MutationObserver,window.GAUGES_NO_AUTO_INIT||t.domReady(this.traverse.bind(this))}return ce(t,[{key:"isValidNode",value:function(e){return!(!e.tagName||e.tagName.toLowerCase()!==this.element||e.getAttribute("data-type")!==this.type)}},{key:"traverse",value:function(){for(var e=document.getElementsByTagName(this.element),t=0,i=e.length;t<i;t++)this.process(e[t]);this.isObservable&&!this.mutationsObserved&&(new MutationObserver(this.observe.bind(this)).observe(document.body,{childList:!0,subtree:!0,attributes:!0,characterData:!0,attributeOldValue:!0,characterDataOldValue:!0}),this.mutationsObserved=!0)}},{key:"observe",value:function(e){for(var t=0,i=e.length;t<i;t++){var r=e[t];if("attributes"===r.type&&"data-type"===r.attributeName&&this.isValidNode(r.target)&&r.oldValue!==this.type)setTimeout(this.process.bind(this,r.target));else if(r.addedNodes&&r.addedNodes.length)for(var o=0,n=r.addedNodes.length;o<n;o++)setTimeout(this.process.bind(this,r.addedNodes[o]))}}},{key:"process",value:function(e){var i=this;if(!this.isValidNode(e))return null;var r=void 0,o=JSON.parse(JSON.stringify(this.options)),n=null;for(r in o)if(o.hasOwnProperty(r)){var a=t.toAttributeName(r),l=t.parse(e.getAttribute(a));null!==l&&void 0!==l&&(o[r]=l)}return o.renderTo=e,n=new this.Type(o),n.draw&&n.draw(),this.isObservable?(n.observer=new MutationObserver(function(r){r.forEach(function(r){if("attributes"===r.type){var o=r.attributeName.toLowerCase(),a=e.getAttribute(o).toLowerCase();if("data-type"===o&&a&&a!==i.type)n.observer.disconnect(),delete n.observer,n.destroy&&n.destroy();else if("data-"===o.substr(0,5)){var l=o.substr(5).split("-").map(function(e,t){return t?e.charAt(0).toUpperCase()+e.substr(1):e}).join(""),s={};s[l]=t.parse(e.getAttribute(r.attributeName)),"value"===l?n&&(n.value=s[l]):n.update&&n.update(s)}}})}),n.observer.observe(e,{attributes:!0}),n):n}}],[{key:"parse",value:function(e){if("true"===e)return!0;if("false"===e)return!1;if("undefined"!==e){if("null"===e)return null;if(/^[-+#.\w\d\s]+(?:,[-+#.\w\d\s]*)+$/.test(e))return e.split(",");try{return JSON.parse(e)}catch(e){}return e}}},{key:"toDashed",value:function(e){for(var t=e.split(/(?=[A-Z])/),i=1,r=t.length,o=t[0].toLowerCase();i<r;i++)o+="-"+t[i].toLowerCase();return o}},{key:"toCamelCase",value:function(e){for(var t=!(arguments.length>1&&void 0!==arguments[1])||arguments[1],i=e.split(/-/),r=0,o=i.length,n="";r<o;r++)n+=r||t?i[r][0].toUpperCase()+i[r].substr(1).toLowerCase():i[r].toLowerCase();return n}},{key:"toAttributeName",value:function(e){return"data-"+t.toDashed(e)}},{key:"domReady",value:function(e){if(/comp|inter|loaded/.test((window.document||{}).readyState+""))return e();window.addEventListener?window.addEventListener("DOMContentLoaded",e,!1):window.attachEvent&&window.attachEvent("onload",e)}}]),t}(),be=function(){function e(t,i,r){o(this,e),e.collection.push(this),this.width=i||0,this.height=r||0,this.element=t,this.init()}return ce(e,[{key:"init",value:function(){var t=e.pixelRatio;this.element.width=this.width*t,this.element.height=this.height*t,this.element.style.width=this.width+"px",this.element.style.height=this.height+"px",this.elementClone=this.element.cloneNode(!0),this.context=this.element.getContext("2d"),this.contextClone=this.elementClone.getContext("2d"),this.drawWidth=this.element.width,this.drawHeight=this.element.height,this.drawX=this.drawWidth/2,this.drawY=this.drawHeight/2,this.minSide=this.drawX<this.drawY?this.drawX:this.drawY,this.elementClone.initialized=!1,this.contextClone.translate(this.drawX,this.drawY),this.contextClone.save(),this.context.translate(this.drawX,this.drawY),this.context.save(),this.context.max=this.contextClone.max=this.minSide,this.context.maxRadius=this.contextClone.maxRadius=null}},{key:"destroy",value:function(){var t=e.collection.indexOf(this);~t&&e.collection.splice(t,1),this.context.clearRect(-this.drawX,-this.drawY,this.drawWidth,this.drawHeight),this.context.max=null,delete this.context.max,this.context.maxRadius=null,delete this.context.maxRadius,this.context=null,this.contextClone=null,this.elementClone=null,this.element=null,this.onRedraw=null}},{key:"commit",value:function(){var t=e.pixelRatio;return 1!==t&&(this.contextClone.scale(t,t),this.contextClone.save()),this}},{key:"redraw",value:function(){return this.init(),this.onRedraw&&this.onRedraw(),this}}],[{key:"redraw",value:function(){for(var t=0,i=e.collection.length;t<i;t++)e.collection[t].redraw()}},{key:"pixelRatio",get:function(){return window.devicePixelRatio||1}}]),e}();be.collection=[],window.matchMedia&&window.matchMedia("screen and (min-resolution: 2dppx)").addListener(be.redraw);var ge={renderTo:null,width:0,height:0,minValue:0,maxValue:100,value:0,units:!1,exactTicks:!1,majorTicks:[0,20,40,60,80,100],minorTicks:10,strokeTicks:!0,animatedValue:!1,animateOnInit:!1,title:!1,borders:!0,numbersMargin:1,listeners:null,valueInt:3,valueDec:2,majorTicksInt:1,majorTicksDec:0,animation:!0,animationDuration:500,animationRule:"cycle",colorPlate:"#fff",colorPlateEnd:"",colorMajorTicks:"#444",
+colorMinorTicks:"#666",colorStrokeTicks:"",colorTitle:"#888",colorUnits:"#888",colorNumbers:"#444",colorNeedle:"rgba(240,128,128,1)",colorNeedleEnd:"rgba(255,160,122,.9)",colorValueText:"#444",colorValueTextShadow:"rgba(0,0,0,0.3)",colorBorderShadow:"rgba(0,0,0,0.5)",colorBorderOuter:"#ddd",colorBorderOuterEnd:"#aaa",colorBorderMiddle:"#eee",colorBorderMiddleEnd:"#f0f0f0",colorBorderInner:"#fafafa",colorBorderInnerEnd:"#ccc",colorValueBoxRect:"#888",colorValueBoxRectEnd:"#666",colorValueBoxBackground:"#babab2",colorValueBoxShadow:"rgba(0,0,0,1)",colorNeedleShadowUp:"rgba(2,255,255,0.2)",colorNeedleShadowDown:"rgba(188,143,143,0.45)",colorBarStroke:"#222",colorBar:"#ccc",colorBarProgress:"#888",colorBarShadow:"#000",fontNumbers:"Arial",fontTitle:"Arial",fontUnits:"Arial",fontValue:"Arial",fontNumbersSize:20,fontTitleSize:24,fontUnitsSize:22,fontValueSize:26,fontNumbersStyle:"normal",fontTitleStyle:"normal",fontUnitsStyle:"normal",fontValueStyle:"normal",fontNumbersWeight:"normal",fontTitleWeight:"normal",fontUnitsWeight:"normal",fontValueWeight:"normal",needle:!0,needleShadow:!0,needleType:"arrow",needleStart:5,needleEnd:85,needleWidth:4,borderOuterWidth:3,borderMiddleWidth:3,borderInnerWidth:3,borderShadowWidth:3,valueBox:!0,valueBoxStroke:5,valueBoxWidth:0,valueText:"",valueTextShadow:!0,valueBoxBorderRadius:2.5,highlights:[{from:20,to:60,color:"#eee"},{from:60,to:80,color:"#ccc"},{from:80,to:100,color:"#999"}],highlightsWidth:15,barWidth:20,barStrokeWidth:0,barProgress:!0,barShadow:0};l.prototype=Object.create(Array.prototype),l.prototype.constructor=l,l.prototype.get=function(e){if("string"==typeof e)for(var t=0,i=this.length;t<i;t++){var r=this[t].options.renderTo.tagName?this[t].options.renderTo:document.getElementById(this[t].options.renderTo||"");if(r.getAttribute("id")===e)return this[t]}else if("number"==typeof e)return this[e];return null};var pe="2.1.5",we=Math.round,ye=Math.abs,ke=new l;ke.version=pe;var xe=function(t){function n(t){o(this,n);var r=i(this,(n.__proto__||Object.getPrototypeOf(n)).call(this)),a=r.constructor.name;if("BaseGauge"===a)throw new TypeError("Attempt to instantiate abstract class!");if(ke.push(r),t.listeners&&Object.keys(t.listeners).forEach(function(e){(t.listeners[e]instanceof Array?t.listeners[e]:[t.listeners[e]]).forEach(function(t){r.on(e,t)})}),r.version=pe,r.type=e[a]||n,r.initialized=!1,t.minValue=parseFloat(t.minValue),t.maxValue=parseFloat(t.maxValue),t.value=parseFloat(t.value)||0,t.borders||(t.borderInnerWidth=t.borderMiddleWidth=t.borderOuterWidth=0),!t.renderTo)throw TypeError("Canvas element was not specified when creating the Gauge object!");var l=t.renderTo.tagName?t.renderTo:document.getElementById(t.renderTo);if(!(l instanceof HTMLCanvasElement))throw TypeError("Given gauge canvas element is invalid!");return t.width=parseFloat(t.width)||0,t.height=parseFloat(t.height)||0,t.width&&t.height||(t.width||(t.width=l.parentNode?l.parentNode.offsetWidth:l.offsetWidth),t.height||(t.height=l.parentNode?l.parentNode.offsetHeight:l.offsetHeight)),r.options=t||{},r.options.animateOnInit&&(r._value=r.options.value,r.options.value=r.options.minValue),r.canvas=new be(l,t.width,t.height),r.canvas.onRedraw=r.draw.bind(r),r.animation=new me(t.animationRule,t.animationDuration),r}return r(n,t),ce(n,[{key:"update",value:function(e){return Object.assign(this.options,this.type.configure(e||{})),this.canvas.width=this.options.width,this.canvas.height=this.options.height,this.animation.rule=this.options.animationRule,this.animation.duration=this.options.animationDuration,this.canvas.redraw(),this}},{key:"destroy",value:function(){var e=ke.indexOf(this);~e&&ke.splice(e,1),this.canvas.destroy(),this.canvas=null,this.animation.destroy(),this.animation=null,this.emit("destroy")}},{key:"draw",value:function(){return this.options.animateOnInit&&!this.initialized&&(this.value=this._value,this.initialized=!0,this.emit("init")),this.emit("render"),this}},{key:"value",set:function(e){var t=this;e=n.ensureValue(e,this.options.minValue);var i=this.options.value;if(e!==i)if(this.options.animation){if(this.animation.frame&&(this._value===e))return this.animation.cancel(),void delete this._value;this._value=e,this.emit("animationStart"),this.animation.animate(function(r){var o=i+(e-i)*r;t.options.animatedValue&&t.emit("value",o,t.value),t.options.value=o,t.draw(),t.emit("animate",r,t.options.value)},function(){void 0!==t._value&&(t.emit("value",t._value,t.value),t.options.value=t._value,delete t._value),t.draw(),t.emit("animationEnd")})}else this.emit("value",e,this.value),this.options.value=e,this.draw()},get:function(){return void 0===this._value?this.options.value:this._value}}],[{key:"configure",value:function(e){return e}},{key:"initialize",value:function(e,t){return new ve(t,"canvas",e)}},{key:"fromElement",value:function(e){var t=ve.toCamelCase(e.getAttribute("data-type")),i=e.attributes,r=0,o=i.length,n={};if(t){for(/Gauge$/.test(t)||(t+="Gauge");r<o;r++)n[ve.toCamelCase(i[r].name.replace(/^data-/,""),!1)]=ve.parse(i[r].value);new ve(n,e.tagName,t).process(e)}}},{key:"ensureValue",value:function(e){var t=arguments.length>1&&void 0!==arguments[1]?arguments[1]:0;return e=parseFloat(e),!isNaN(e)&&isFinite(e)||(e=parseFloat(t)||0),e}},{key:"mod",value:function(e,t){return(e%t+t)%t}},{key:"version",get:function(){return pe}}]),n}(he);void 0!==e&&(e.BaseGauge=xe,e.gauges=(window.document||{}).gauges=ke);var Te={roundRect:c,padValue:h,formatMajorTickNumber:u,radians:f,radialPoint:m,linearGradient:v,drawNeedleShadow:g,drawValueBox:k,verifyError:s,prepareTicks:d,drawShadow:b,font:p,normalizedValue:x},Se=Math.PI,We=Se/2,Oe=Object.assign({},ge,{ticksAngle:270,startAngle:45,colorNeedleCircleOuter:"#f0f0f0",colorNeedleCircleOuterEnd:"#ccc",colorNeedleCircleInner:"#e8e8e8",colorNeedleCircleInnerEnd:"#f5f5f5",needleCircleSize:10,needleCircleInner:!0,needleCircleOuter:!0,needleStart:20,animationTarget:"needle",useMinPath:!1,barWidth:0}),Ve=function(e){function t(e){return o(this,t),e=Object.assign({},Oe,e||{}),i(this,(t.__proto__||Object.getPrototypeOf(t)).call(this,t.configure(e)))}return r(t,e),ce(t,[{key:"draw",value:function(){try{var e=this.canvas,i=[-e.drawX,-e.drawY,e.drawWidth,e.drawHeight],r=i[0],o=i[1],n=i[2],a=i[3],l=this.options;if("needle"===l.animationTarget){if(!e.elementClone.initialized){var s=e.contextClone;s.clearRect(r,o,n,a),s.save(),this.emit("beforePlate"),W(s,l),this.emit("beforeHighlights"),O(s,l),this.emit("beforeMinorTicks"),V(s,l),this.emit("beforeMajorTicks"),M(s,l),this.emit("beforeNumbers"),j(s,l),this.emit("beforeTitle"),C(s,l),this.emit("beforeUnits"),N(s,l),e.elementClone.initialized=!0}this.canvas.commit(),e.context.clearRect(r,o,n,a),e.context.save(),e.context.drawImage(e.elementClone,r,o,n,a),e.context.save(),this.emit("beforeProgressBar"),R(e.context,l),this.emit("beforeValueBox"),_(e.context,l,I(this)),this.emit("beforeNeedle"),E(e.context,l)}else{var d=-Te.radians((l.value-l.minValue)/(l.maxValue-l.minValue)*l.ticksAngle);if(e.context.clearRect(r,o,n,a),e.context.save(),this.emit("beforePlate"),W(e.context,l),e.context.rotate(d),this.emit("beforeHighlights"),O(e.context,l),this.emit("beforeMinorTicks"),V(e.context,l),this.emit("beforeMajorTicks"),M(e.context,l),this.emit("beforeNumbers"),j(e.context,l),this.emit("beforeProgressBar"),R(e.context,l),e.context.rotate(-d),e.context.save(),!e.elementClone.initialized){var c=e.contextClone;c.clearRect(r,o,n,a),c.save(),this.emit("beforeTitle"),C(c,l),this.emit("beforeUnits"),N(c,l),this.emit("beforeNeedle"),E(c,l),e.elementClone.initialized=!0}e.context.drawImage(e.elementClone,r,o,n,a)}this.emit("beforeValueBox"),_(e.context,l,I(this)),se(t.prototype.__proto__||Object.getPrototypeOf(t.prototype),"draw",this).call(this)}catch(e){Te.verifyError(e)}return this}},{key:"value",set:function(e){e=xe.ensureValue(e,this.options.minValue),this.options.animation&&360===this.options.ticksAngle&&this.options.useMinPath&&(this._value=e,e=this.options.value+((e-this.options.value)%360+540)%360-180),de(t.prototype.__proto__||Object.getPrototypeOf(t.prototype),"value",e,this)},get:function(){return se(t.prototype.__proto__||Object.getPrototypeOf(t.prototype),"value",this)}}],[{key:"configure",value:function(e){return e.barWidth>50&&(e.barWidth=50),isNaN(e.startAngle)&&(e.startAngle=45),isNaN(e.ticksAngle)&&(e.ticksAngle=270),e.ticksAngle>360&&(e.ticksAngle=360),e.ticksAngle<0&&(e.ticksAngle=0),e.startAngle<0&&(e.startAngle=0),e.startAngle>360&&(e.startAngle=360),e}}]),t}(xe);void 0!==e&&(e.RadialGauge=Ve),xe.initialize("RadialGauge",Oe);var Pe=Object.assign({},ge,{borderRadius:0,barBeginCircle:30,colorBarEnd:"",colorBarProgressEnd:"",needleWidth:6,tickSide:"both",needleSide:"both",numberSide:"both",ticksWidth:10,ticksWidthMinor:5,ticksPadding:5,barLength:85,fontTitleSize:26,highlightsWidth:10}),Me=function(e){function n(e){return o(this,n),e=Object.assign({},Pe,e||{}),i(this,(n.__proto__||Object.getPrototypeOf(n)).call(this,n.configure(e)))}return r(n,e),ce(n,[{key:"draw",value:function(){try{var e=this.canvas,i=[-e.drawX,-e.drawY,e.drawWidth,e.drawHeight],r=i[0],o=i[1],a=i[2],l=i[3],s=this.options;if(!e.elementClone.initialized){var d=e.contextClone;d.clearRect(r,o,a,l),d.save(),this.emit("beforePlate"),this.drawBox=L(d,s,r,o,a,l),this.emit("beforeBar"),X.apply(void 0,[d,s].concat(t(this.drawBox))),e.context.barDimensions=d.barDimensions,this.emit("beforeHighlights"),q(d,s),this.emit("beforeMinorTicks"),K(d,s),this.emit("beforeMajorTicks"),$(d,s),this.emit("beforeNumbers"),Q(d,s),this.emit("beforeTitle"),ee(d,s),this.emit("beforeUnits"),te(d,s),e.elementClone.initialized=!0}this.canvas.commit(),e.context.clearRect(r,o,a,l),e.context.save(),e.context.drawImage(e.elementClone,r,o,a,l),e.context.save(),this.emit("beforeProgressBar"),U.apply(void 0,[e.context,s].concat(t(this.drawBox))),this.emit("beforeNeedle"),ie(e.context,s),this.emit("beforeValueBox"),ae.apply(void 0,[e.context,s,s.animatedValue?this.options.value:this.value].concat(t(this.drawBox))),se(n.prototype.__proto__||Object.getPrototypeOf(n.prototype),"draw",this).call(this)}catch(e){Te.verifyError(e)}return this}}],[{key:"configure",value:function(e){return e.barStrokeWidth>=e.barWidth&&(e.barStrokeWidth=we(e.barWidth/2)),e.hasLeft=Y("right",e),e.hasRight=Y("left",e),e.value>e.maxValue&&(e.value=e.maxValue),e.value<e.minValue&&(e.value=e.minValue),xe.configure(e)}}]),n}(xe);void 0!==e&&(e.LinearGauge=Me),xe.initialize("LinearGauge",Pe),"undefined"!=typeof module&&Object.assign(e,{Collection:l,GenericOptions:ge,Animation:me,BaseGauge:xe,drawings:Te,SmartCanvas:be,DomObserver:ve,vendorize:n})}("undefined"!=typeof module?module.exports:window);

diff --git a/examples/analog_compass_2/src/magnetic_compass.js b/examples/analog_compass_2/src/magnetic_compass.js
@@ -1,0 +1,83 @@
+/* Check the following for configuration options */
+
+/* canvas-gauges.com/documentation/user-guide/configuration */
+/* Do not keep numbers or boolean inside quotes, It should be used as it is  */
+/* Reference : https://github.com/Mikhus/canvas-gauges/wiki/Gauge-API */
+var dial_ctr = 0;
+var blue_compass_obj;
+
+function blue_compass(container_id, w, h) {
+  dial_ctr += 1;
+  var canvas_id = "compass_canvas_".concat(dial_ctr.toString());
+  var cv = document.createElement("canvas");
+  cv.setAttribute("id", canvas_id);
+  cv.setAttribute("data-type", "radial-gauge");
+
+  var main_container = document.getElementById(container_id);
+  main_container.appendChild(cv);
+  /*
+  majorTicks: ["N", "NE", "E", "SE", "S", "SW", "W", "NW", "N"],
+  minorTicks: 22,
+  */
+
+  blue_compass_obj = new RadialGauge({
+    renderTo: canvas_id,
+    width: w,
+    height: h,
+    minValue: 0,
+    maxValue: 360,
+    majorTicks: ["0", "45", "90", "135", "180", "225", "270", "315", "0"],
+    minorTicks: 3 /* Every 15 degrees */,
+    ticksAngle: 360,
+    startAngle: 180,
+    strokeTicks: false,
+    highlights: false,
+    colorPlate: "#21216F" /* blue plate color : #33a*/,
+    colorMajorTicks: "#f5f5f5",
+    colorMinorTicks: "#ddd",
+    colorNumbers: "#ccc" /* grey = #ccc */,
+    colorNeedle: "rgba(240, 128, 128, 1)",
+    colorNeedleEnd: "rgba(255, 160, 122, .9)",
+    valueBox: false,
+    valueTextShadow: false,
+    colorNeedleCircleInner: "#fff" /* #fff = white */,
+    colorNeedleCircleOuter: "#ccc",
+    needleCircleSize: 15,
+    needleCircleOuter: false,
+    animationRule: "linear",
+    needleType: "line" /* arrow or line */,
+    needleStart: 40 /*70 - needle tail length*/,
+    needleEnd: 60 /*99 - needle head length */,
+    needleWidth: 3,
+    borders: true,
+    borderInnerWidth: 0,
+    borderMiddleWidth: 0,
+    borderOuterWidth: 10,
+    colorBorderOuter: "#ccc",
+    colorBorderOuterEnd: "#ccc",
+    colorNeedleShadowDown: "#222",
+    borderShadowWidth: 0,
+    animationTarget: "plate" /* needle or plate*/,
+    units: "ᵍ",
+    title: "DIRECTION",
+    fontTitleSize: 19,
+    colorTitle: "#f5f5f5",
+    animationDuration: 1500,
+    value: 360,
+    animateOnInit: true,
+  });
+  blue_compass_obj.draw();
+}
+
+function update_compass_value(degrees) {
+  blue_compass_obj.value = degrees;
+}
+
+function display_current_value() {
+  var value = blue_compass_obj.value;
+  console.log(value);
+}
+
+blue_compass("main_container", 400, 400);
+update_compass_value(0);
+display_current_value();

diff --git a/examples/analog_compass_2/src/index.html b/examples/analog_compass_2/src/index.html
@@ -1,0 +1,13 @@
+<!DOCTYPE html>
+<html>
+  <head>
+    <meta http-equiv="Content-Type" content="text/html; charset=UTF-8" />
+    <title>Magnetic Compass</title>
+    <script src="gauge.min.js"></script>
+    <link rel="stylesheet" href="style.css" />
+  </head>
+  <body>
+    <div id="main_container"></div>
+    <script src="magnetic_compass.js"></script>
+  </body>
+</html>

diff --git a/examples/analog_compass_2/src/style.css b/examples/analog_compass_2/src/style.css
@@ -1,0 +1,3 @@
+body {
+  background: #fff;
+}

diff --git a/README.md b/README.md
@@ -17,6 +17,9 @@
 
 ![alt text](images/analog_compass_1.png)
 
+#### Responsive Layout 1 ( examples/analog_compass_2 )
+
+![alt text](images/analog_compass_2.png)
 
 #### Responsive Layout 1 ( examples/layout_1 )
 

diff --git a/examples/analog_compass_2/README.md b/examples/analog_compass_2/README.md
@@ -1,0 +1,9 @@
+#Magnetic Compass UI
+
+
+
+Reference:
+
+https://github.com/Mikhus/canvas-gauges
+
+
